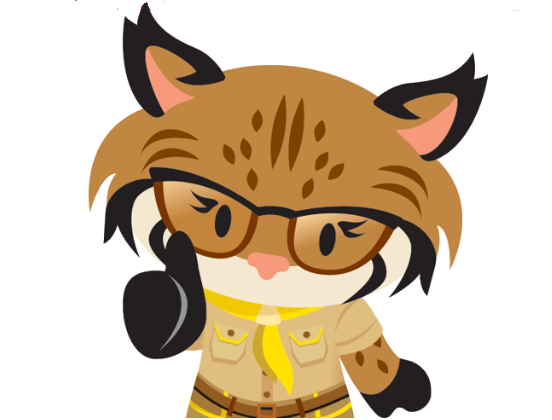
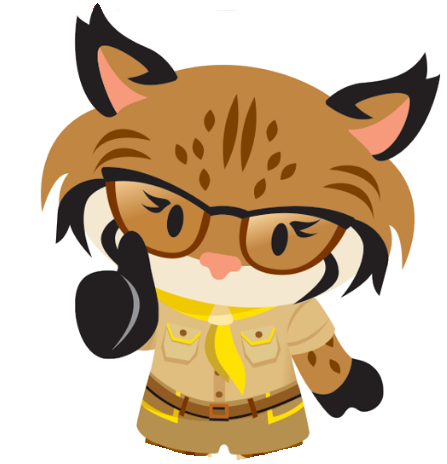
WIP: compressed files for landing page and fixed chatbot pfp

diff --git a/frontend/src/components/AICompanion/AICompanion.jsx b/frontend/src/components/AICompanion/AICompanion.jsx
@@ -1,12 +1,14 @@
-import React, { useState } from "react";
+import React, { useState } from "react"; // ← no useEffect needed anymore
 import axios from "axios";
 import CONFIG from "../../config.js";
 import "./AICompanion.css";
 
-export default function AICompanionModal({ onClose }) {
+export default function AICompanionModal({ onClose, user }) {
   const [messages, setMessages] = useState([]);
   const [input, setInput] = useState("");
   const [isLoading, setIsLoading] = useState(false);
+
+    console.log("user.image_url", user?.image_url);
 
   const sendMessage = async () => {
     if (!input.trim()) return;
@@ -38,49 +40,37 @@ export default function AICompanionModal({ onClose }) {
   return (
     <div className="ai-modal-overlay">
       <div className="ai-modal">
-        <button className="close-ai-modal-btn" onClick={onClose}>
-          ✕
-        </button>
+        <button className="close-ai-modal-btn" onClick={onClose}>✕</button>
+
         <div className="ai-chatbot-messages">
           {messages.map((msg, i) => (
             <div
               key={i}
-              className={`ai-chatbot-message ${
-                msg.role === "user" ? "user" : "assistant"
-              } ${msg.role === "assistant" ? "chatbot-message" : ""}`}
+              className={`ai-chatbot-message ${msg.role === "user" ? "user" : "assistant"} ${msg.role === "assistant" ? "chatbot-message" : ""}`}
             >
               <div className="ai-message-header">
                 <img
                   src={
                     msg.role === "user"
-                      ? "/ruth-profile-selected.png"
+                      ? user?.image_url || "/default-profile.png"
                       : "/BWell-Astro.png"
-                  }
+                    }
                   alt={msg.role === "user" ? "You" : "B-Well Astro"}
                   className="ai-avatar"
                 />
                 <b>{msg.role === "user" ? "You" : "B-Well Astro"}:</b>
               </div>
-
               {msg.content}
             </div>
           ))}
+
           {isLoading && (
             <div className="ai-chatbot-message assistant">
               <div className="ai-message-header">
-                <img
-                  src="/BWell-Astro.png"
-                  alt="B-Well Astro"
-                  className="ai-avatar"
-                />
+                <img src="/BWell-Astro.png" alt="B-Well Astro" className="ai-avatar" />
                 <b>B-Well Astro:</b>
               </div>
-              <img
-                src="/bee.gif"
-                alt="Thinking..."
-                className="bee-gif"
-                style={{ width: "80px", height: "80px" }}
-              />
+              <img src="/bee.gif" alt="Thinking..." className="bee-gif" style={{ width: "80px", height: "80px" }} />
             </div>
           )}
         </div>
@@ -92,9 +82,8 @@ export default function AICompanionModal({ onClose }) {
             className="ai-chatbot-input"
             placeholder="Type your message..."
           />
-          <button onClick={sendMessage} className="ai-chatbot-send-btn">
-            Send
-          </button>
+          <button onClick={sendMessage} className="ai-chatbot-send-btn">Send</button>
+
         </div>
       </div>
     </div>

diff --git a/frontend/src/components/Habit Card/HabitCard.jsx b/frontend/src/components/Habit Card/HabitCard.jsx
@@ -41,8 +41,14 @@ const HabitCard = () => {
         {weekDays.map((abbr, i) => {
           const fullDay = fullDayMap[abbr];
           const isFoodDay = foodDays.includes(fullDay);
-          const dateKey = currentWeekDates[i];
-          const isLogged = snackLoggedByDay[dateKey];
+
+          const date = new Date(); // get start of current week and add `i` days
+          const monday = new Date();
+          monday.setDate(monday.getDate() - ((monday.getDay() + 6) % 7)); // get Monday of current week
+          const currentDate = new Date(monday);
+          currentDate.setDate(monday.getDate() + i);
+          const isoDate = currentDate.toISOString().split("T")[0];
+          const isLogged = snackLoggedByDay[isoDate];
 
           return (
             <div className="day" key={i}>
@@ -53,15 +59,19 @@ const HabitCard = () => {
               >
                 {isLogged ? (
                   <div className="circle-content">
-                    ✓
+                    <span className="checkmark">✓</span>
                     <img
                       src="/Appy-complete.png"
                       alt="appy"
                       className="circle-image"
                     />
+                    <span className="good-job-text">GOOD JOB!</span>
                   </div>
                 ) : (
-                  "×"
+                  <div className="circle-content">
+                    {/* <span className="checkmark">×</span> */}
+                    <span className="got-this-text">YOU GOT THIS!</span>
+                  </div>
                 )}
               </div>
               <p className="day-label">{abbr}</p>

diff --git a/frontend/src/pages/HomePage/HomePage.jsx b/frontend/src/pages/HomePage/HomePage.jsx
@@ -49,20 +49,19 @@ const HomePage = ({ user, setUser }) => {
     fetchAllSnacks();
   }, []);
   useEffect(() => {
-const fetchCaloriesPerDay = async () => {
-  if (!user?.clerkId) return;
-  try {
-    const baseUrl = import.meta.env.VITE_PUBLIC_API_BASE_URL;
-    const res = await axios.get(`${baseUrl}/api/snacks/log/daily`, {
-      params: { userId: user.clerkId },
-    });
-    console.log("📊 Calories per day:", res.data);
-    setDailyCalories(res.data);
-  } catch (err) {
-    console.error("Failed to fetch daily calories:", err);
-  }
-};
-
+    const fetchCaloriesPerDay = async () => {
+      if (!user?.clerkId) return;
+      try {
+        const baseUrl = import.meta.env.VITE_PUBLIC_API_BASE_URL;
+        const res = await axios.get(`${baseUrl}/api/snacks/log/daily`, {
+          params: { userId: user.clerkId },
+        });
+        console.log("📊 Calories per day:", res.data);
+        setDailyCalories(res.data);
+      } catch (err) {
+        console.error("Failed to fetch daily calories:", err);
+      }
+    };
 
     fetchCaloriesPerDay();
   }, [user]);
@@ -137,7 +136,7 @@ const fetchCaloriesPerDay = async () => {
         <span className="chat-message"> Chat With Me!</span>
       </button>
       {isAIModalOpen && (
-        <AICompanionModal onClose={() => setIsAIModalOpen(false)} />
+        <AICompanionModal onClose={() => setIsAIModalOpen(false)} user={user} />
       )}
     </div>
   );

diff --git a/frontend/src/pages/FoodPage/FoodPage.jsx b/frontend/src/pages/FoodPage/FoodPage.jsx
@@ -6,12 +6,14 @@ import { Link } from "react-router-dom";
 import "./FoodPage.css";
 // import Select from 'react-select'
 
-function FoodPage() {
+function FoodPage({ user, setUser }) {
   const [isAIModalOpen, setIsAIModalOpen] = useState(false);
   const [energyLevel, setEnergyLevel] = useState("");
   const [allergy, setAllergy] = useState("");
   const [showAllMeals, setShowAllMeals] = useState(false);
   const [buttonText, setButtonText] = useState(true);
+  console.log("user in FoodPage:", user);
+
 
   return (
     <div className="food-page">
@@ -106,7 +108,10 @@ function FoodPage() {
           <span className="chat-message"> Chat With Me!</span>
         </button>
         {isAIModalOpen && (
-          <AICompanionModal onClose={() => setIsAIModalOpen(false)} />
+          <AICompanionModal
+            onClose={() => setIsAIModalOpen(false)}
+            user={user}
+          />
         )}
       </main>
     </div>

diff --git a/frontend/src/components/CalorieTracker/CaloriesContext.jsx b/frontend/src/components/CalorieTracker/CaloriesContext.jsx
@@ -29,6 +29,11 @@ export const CaloriesProvider = ({ children }) => {
     fetchDailyCalories();
   }, [user]);
 
+  useEffect(() => {
+    const stored = JSON.parse(localStorage.getItem("loggedSnackDays")) || {};
+    setSnackLoggedByDay(stored);
+  }, []);
+
   const refreshCalories = async () => {
     if (!user) return;
     try {
@@ -55,7 +60,11 @@ export const CaloriesProvider = ({ children }) => {
 
   const logSnackForDay = (date) => {
     const key = date.toISOString().split("T")[0];
-    setSnackLoggedByDay((prev) => ({ ...prev, [key]: true }));
+    setSnackLoggedByDay((prev) => {
+      const updated = { ...prev, [key]: true };
+      localStorage.setItem("loggedSnackDays", JSON.stringify(updated));
+      return updated;
+    });
   };
 
   return (

diff --git a/frontend/src/components/Habit Card/HabitCard.css b/frontend/src/components/Habit Card/HabitCard.css
@@ -86,8 +86,35 @@
 }
 
 .circle-image {
-  width: 80px;
+  width: 65px;
   height: 70px;
-  margin-top: -15px;
+  margin-top: -12.8px;
   object-fit: cover;
+}
+.circle-content:hover .circle-image {
+  opacity: 0;
+}
+
+.good-job-text {
+  color: #fff;
+  margin-top: -60px;
+  font-weight: "Bold";
+  opacity: 0;
+}
+
+.circle-content:hover .good-job-text {
+  opacity: 1;
+}
+
+.got-this-text {
+  color: #fff;
+  margin-top: 20px;
+  font-weight: "Bold";
+  opacity: 0;
+  padding-left: 0.2rem;
+  padding-right: 0.2rem;
+}
+
+.circle-content:hover .got-this-text {
+  opacity: 1;
 }

diff --git a/frontend/src/App/App.jsx b/frontend/src/App/App.jsx
@@ -111,7 +111,7 @@ function App() {
               element={
                 <ProtectedRoute>
                   <>
-                    <FoodPage /> <NavBar />
+                    <FoodPage user={user} setUser={setUser} /> <NavBar />
                   </>
                 </ProtectedRoute>
               }
